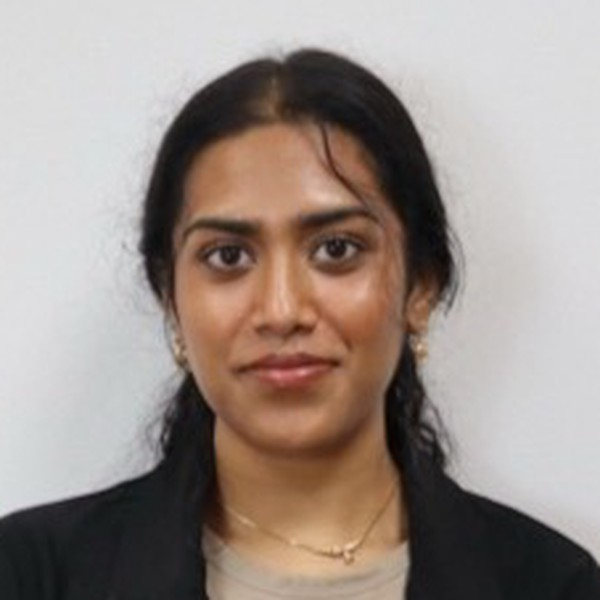
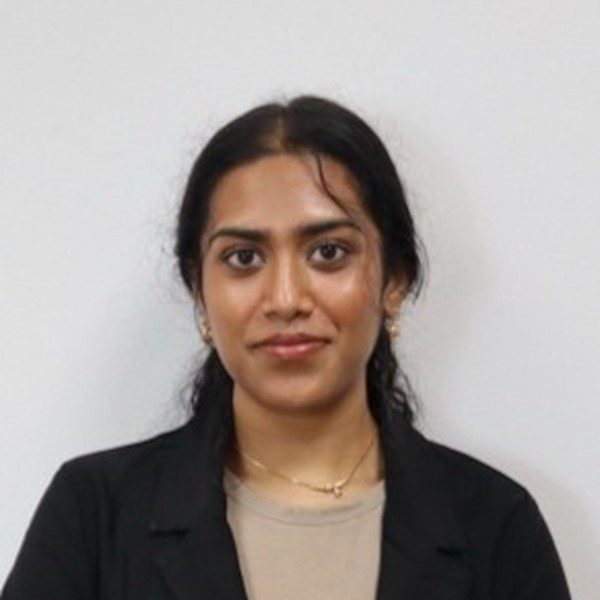
Zoom Shruthi Suresh headshot out slightly to match member photo framing

diff --git a/members.html b/members.html
@@ -276,7 +276,7 @@
         <div class="member-grid">
           <article class="member-card fade-in">
             <div class="member-photo">
-              <picture><source type="image/webp" srcset="images/people/shruthi-suresh.webp?v=2" /><img src="images/people/shruthi-suresh.jpg?v=2" alt="Shruthi Suresh" loading="lazy" width="600" height="600" /></picture>
+              <picture><source type="image/webp" srcset="images/people/shruthi-suresh.webp?v=3" /><img src="images/people/shruthi-suresh.jpg?v=3" alt="Shruthi Suresh" loading="lazy" width="600" height="600" /></picture>
             </div>
             <div class="member-body">
               <h3 class="member-name">Shruthi Suresh</h3>
